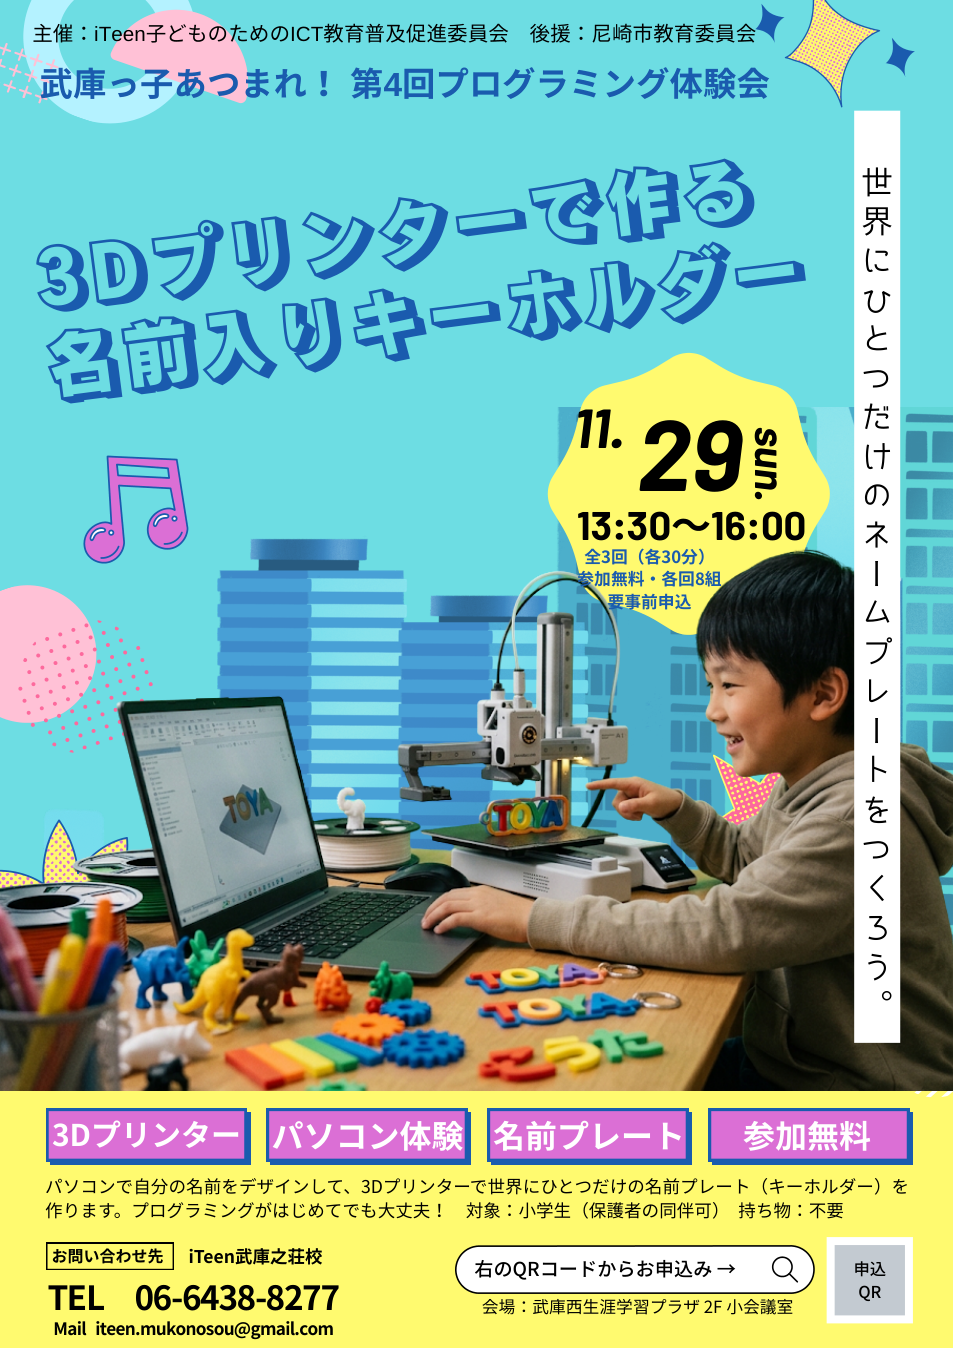
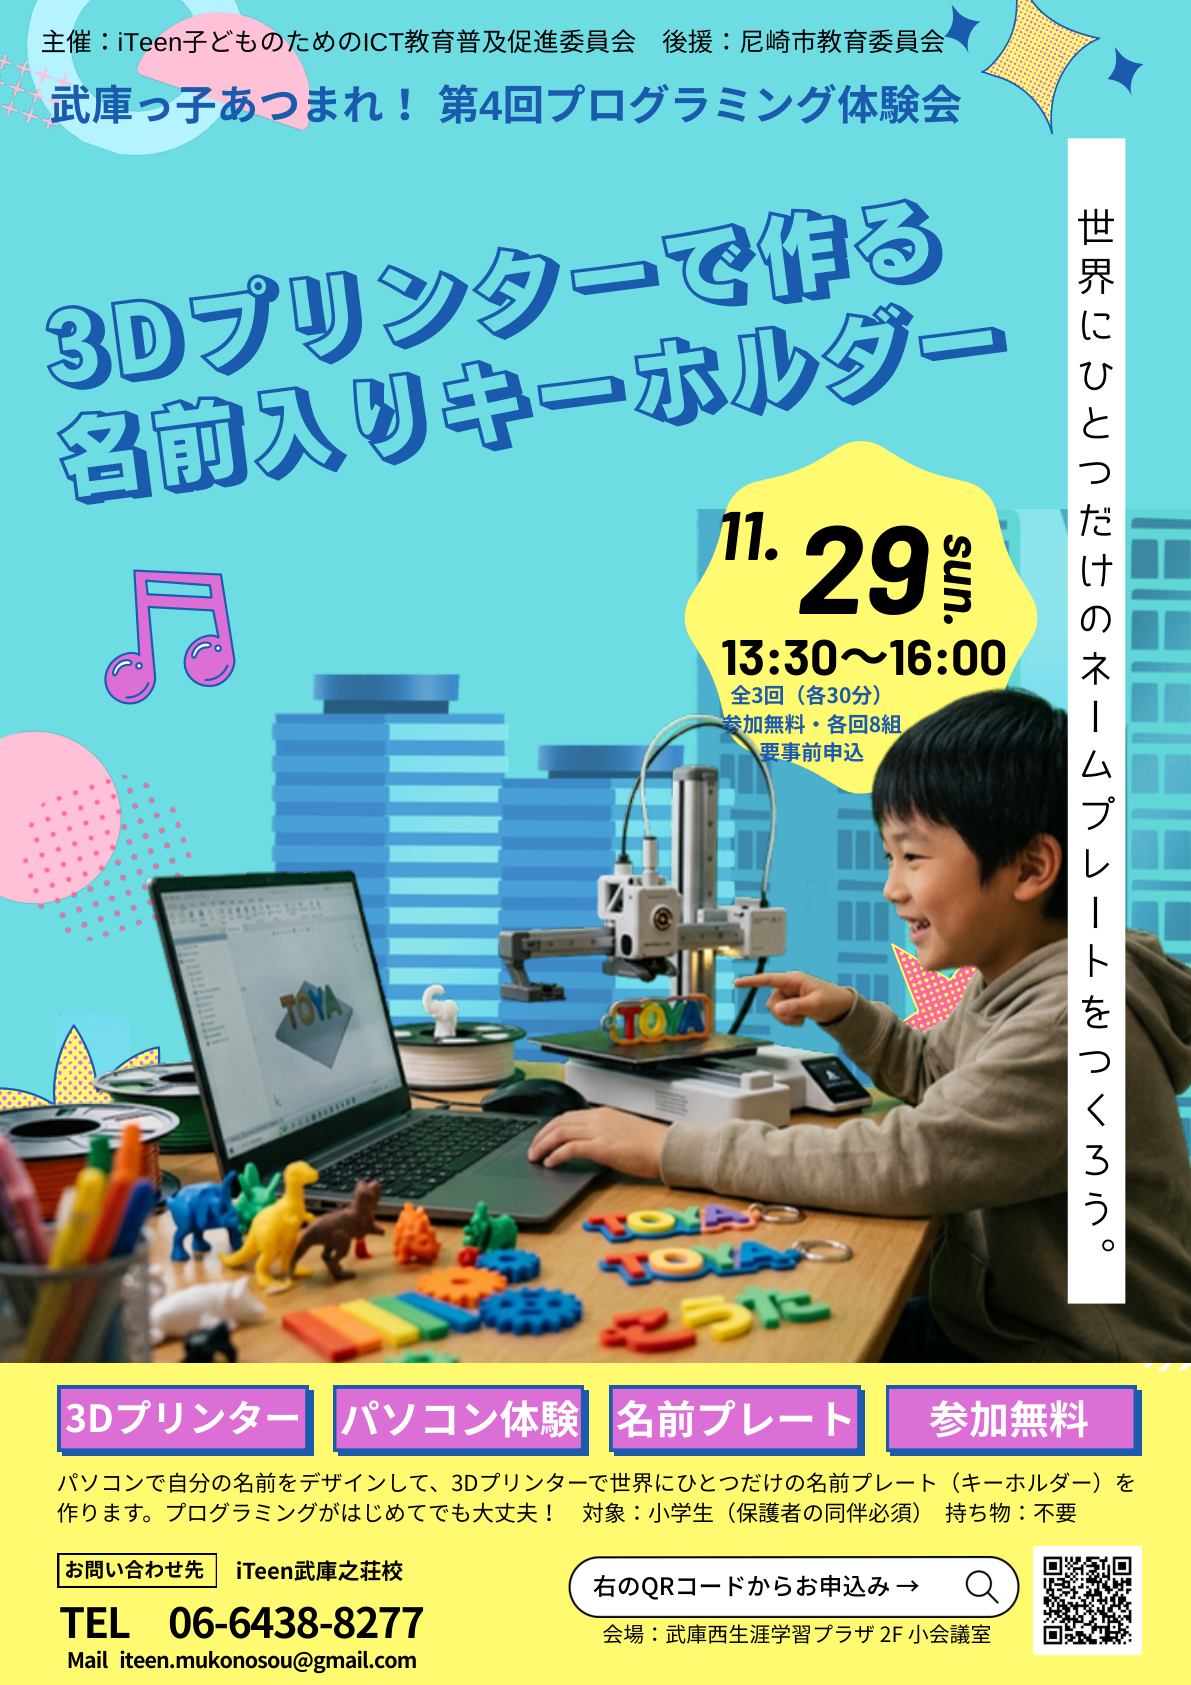
11/29申込ページ: チラシ画像をQR入り・保護者同伴必須の版に差し替え

diff --git a/school/mukonoso/event/261129.html b/school/mukonoso/event/261129.html
@@ -519,7 +519,7 @@
         <div class="container" style="text-align: center;">
             <!-- チラシPNG -->
             <div style="max-width: 800px; margin: 0 auto; border-radius: 0; overflow: hidden; box-shadow: 0 5px 20px rgba(0,0,0,0.15);">
-                <img src="img/261129武庫之荘後援イベント.png" alt="武庫っ子あつまれ！第4回プログラミング体験会 3Dプリンターで作る名前入りキーホルダー チラシ" style="width: 100%; display: block;">
+                <img src="img/261129武庫之荘後援イベント.png?v=2" alt="武庫っ子あつまれ！第4回プログラミング体験会 3Dプリンターで作る名前入りキーホルダー チラシ" style="width: 100%; display: block;">
             </div>
         </div>
     </section>
